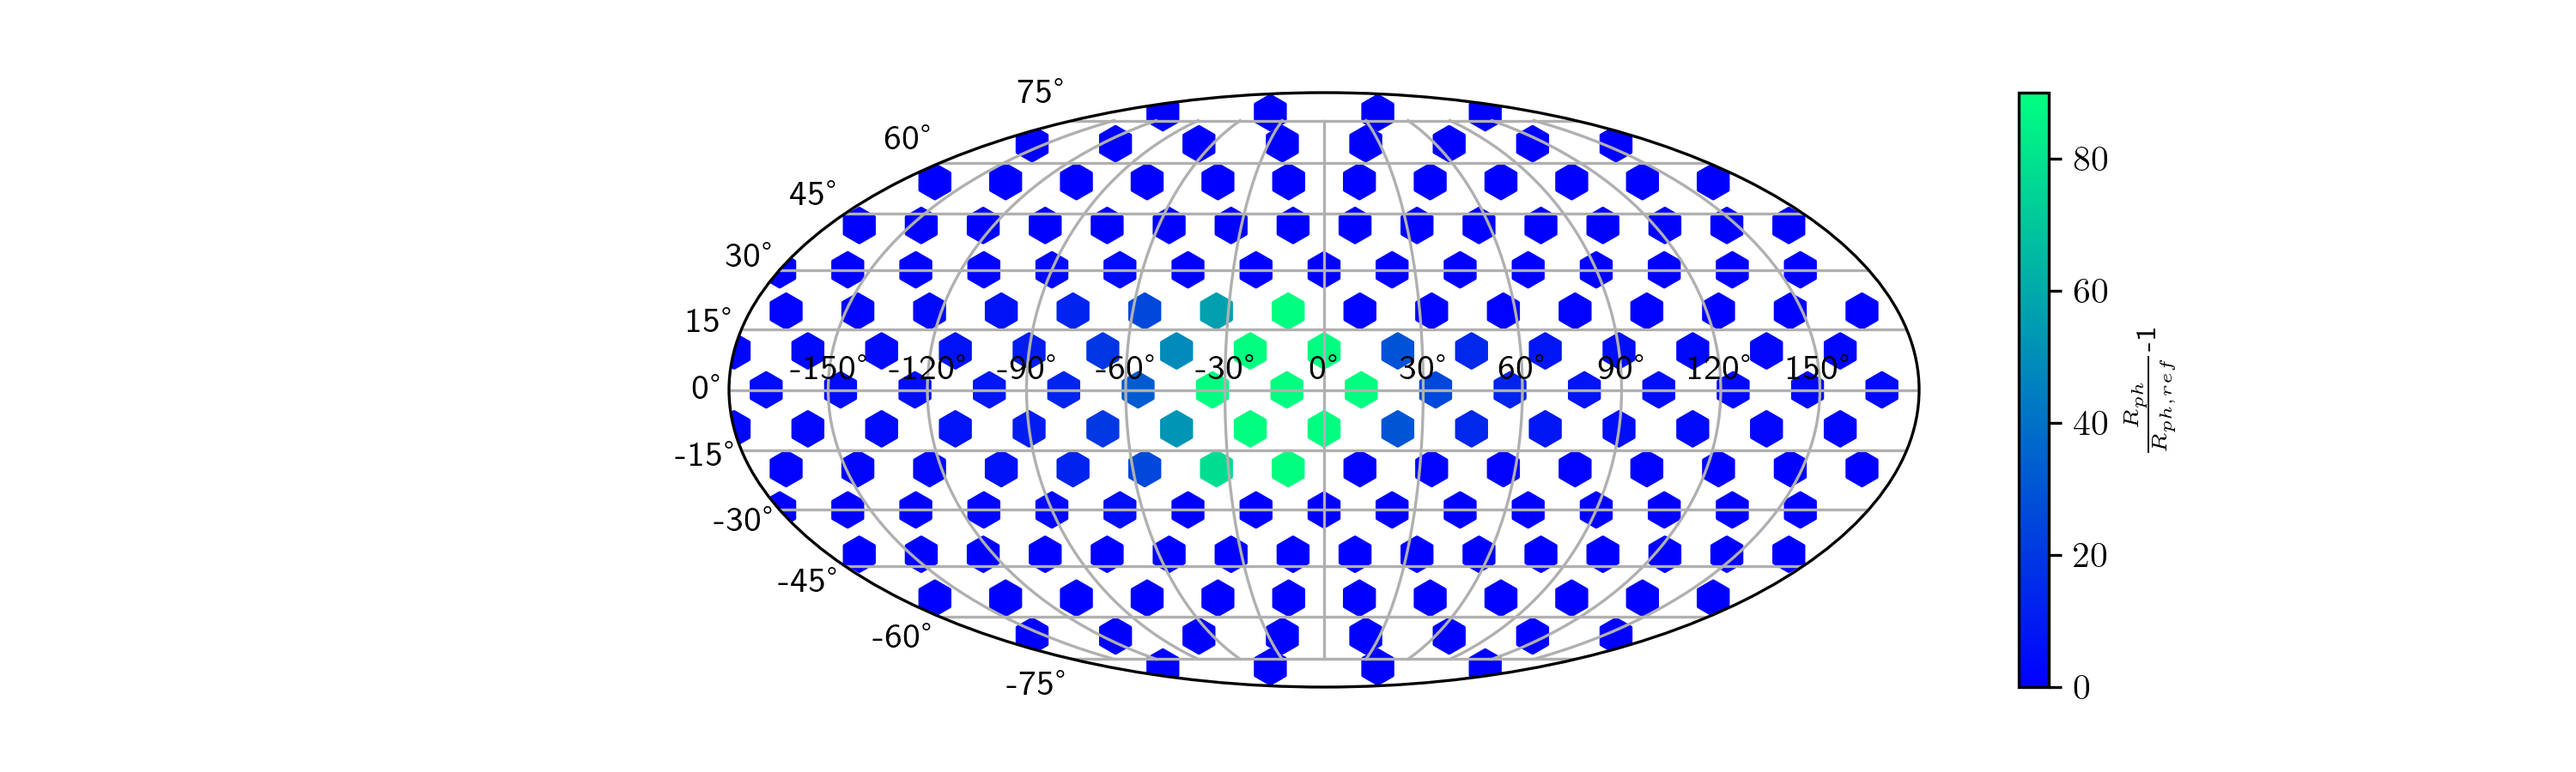
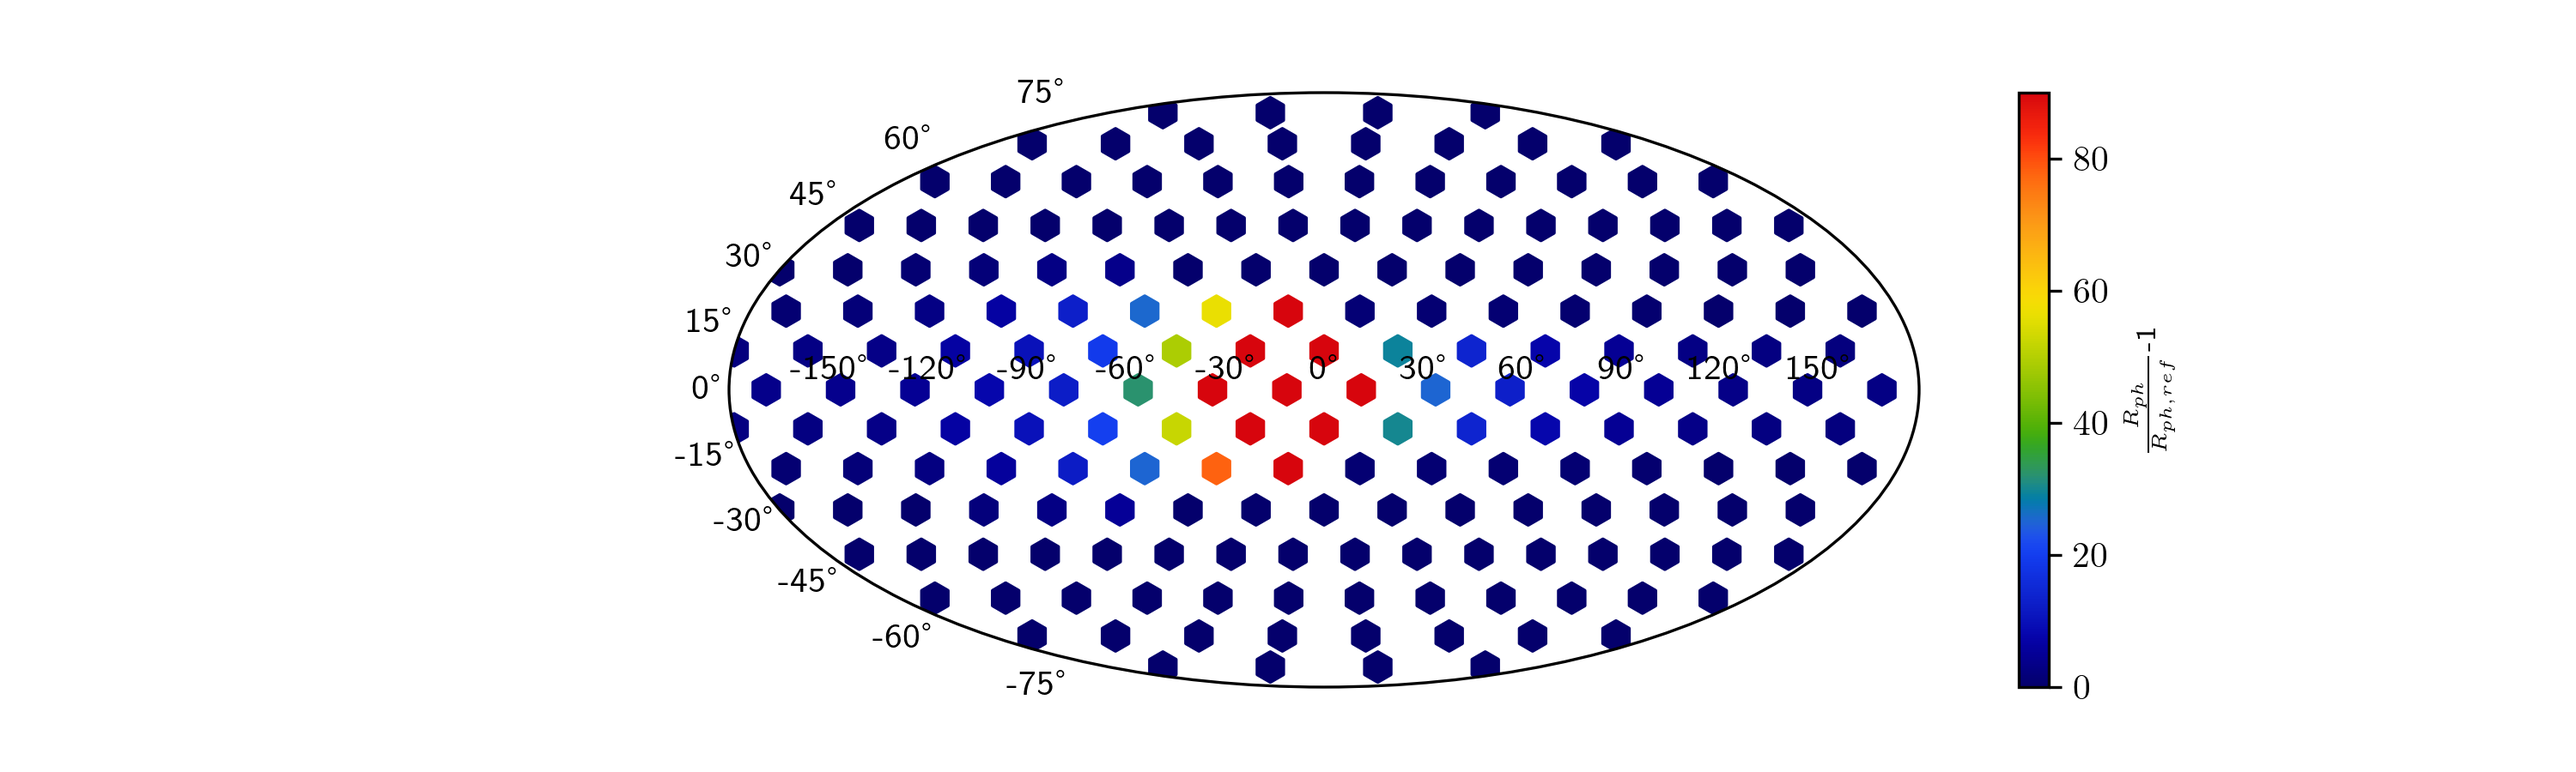
plot observers

Changed region(s): [[0.279, 0.1244, 0.744, 0.9022], [0.775, 0.1244, 0.806, 0.7156], [0.775, 0.7467, 0.806, 0.9022]]

diff --git a/src/Plotting/find_observers.py b/src/Plotting/find_observers.py
@@ -45,10 +45,10 @@ if see_observers:
 if flux:
     flux = np.loadtxt('data/red/flux_m' + str(m) + '_fix' + str(fix) + '.txt')[index_num]/1e15
     fig, ax = plt.subplots(1,1, subplot_kw=dict(projection = "mollweide"))
-    img = ax.scatter(phis, thetas, c = flux, cmap = plt.cm.coolwarm, s=90, marker = 'h', vmin = -5, vmax = 5)
+    img = ax.scatter(phis, thetas, c = flux, cmap = plt.cm.coolwarm, s = 70, marker = 'h', vmin = -5, vmax = 5)
     cbar = fig.colorbar(img)
     cbar.set_label(r'Flux [$10^{15}$ erg/$cm^2$s]', fontsize = 8)
-    plt.grid(True)
+    # plt.grid(True)
     plt.savefig('Final plot/observers_flux' + str(fix) + '.png')
     plt.show()
 
@@ -59,9 +59,10 @@ if photosphere:
     photo = np.loadtxt('data/red/photosphere' + str(fix) + '_num' + str(num) + '.txt')
     photo_to_plot = (photo/Rref) - 1
     fig, ax = plt.subplots(1,1, subplot_kw=dict(projection = "mollweide"))
-    img = ax.scatter(phis, thetas, c = photo_to_plot, cmap = plt.cm.winter, s = 90, marker = 'h', vmin = 0, vmax = 90)
+    import colorcet
+    img = ax.scatter(phis, thetas, c = photo_to_plot, cmap = "cet_rainbow4", s = 70, marker = 'h', vmin = 0, vmax = 90)
     cbar = fig.colorbar(img)
     cbar.set_label(r'$\frac{R_{ph}}{R_{ph,ref}}$-1', fontsize = 8)
-    plt.grid(True)
+    # plt.grid(True)
     plt.savefig('Final plot/observers_photo' + str(fix) + '.png')
     plt.show()
